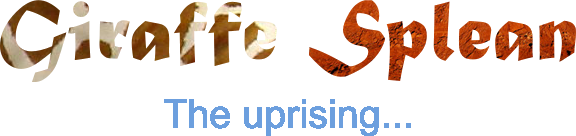
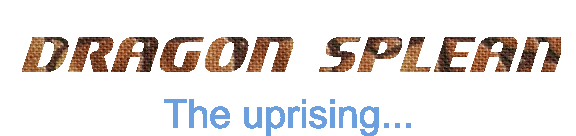
Fixed some MAJOR spelling errors related to the menu.

Changed region(s): [[0.0, 0.0, 1.0, 0.6176]]

diff --git a/PantheonPrototype/PantheonPrototype/HUD/Menu.cs b/PantheonPrototype/PantheonPrototype/HUD/Menu.cs
@@ -321,7 +321,7 @@ namespace PantheonPrototype
                 case "start":
                     spriteBatch.Draw(splashScreen, splashScreenRect, Color.White);
                     spriteBatch.Draw(splashShine, new Rectangle (splashScreenRect.X + offset - 4000, splashScreenRect.Y, splashScreenRect.Width, splashScreenRect.Height), Color.White);
-                    spriteBatch.Draw(splashScreenMask, new Rectangle(0, splashScreenRect.Y, SCREEN_WIDTH, splashScreenRect.Height), Color.White);
+                    spriteBatch.Draw(splashScreenMask, splashScreenRect /*new Rectangle(0, splashScreenRect.Y, SCREEN_WIDTH, splashScreenRect.Height)*/, Color.White);
                     foreach (string itemName in this.splashScreenButtons.Keys)
                     {
                         this.splashScreenButtons[itemName].Draw(spriteBatch);

diff --git a/PantheonPrototype/PantheonPrototype/HUD/HUD.cs b/PantheonPrototype/PantheonPrototype/HUD/HUD.cs
@@ -166,7 +166,7 @@ namespace PantheonPrototype
         {
             spriteBatch.Begin();
 
-            string title = "Pantheon GIRAFFE SPLEAN";
+            string title = "Pantheon DRAGON SPLEAN";
 
             spriteBatch.DrawString(font, title, new Vector2(1, 1), Color.DarkGray);
             spriteBatch.DrawString(font, title, new Vector2(0, 0), Color.LightGray);
